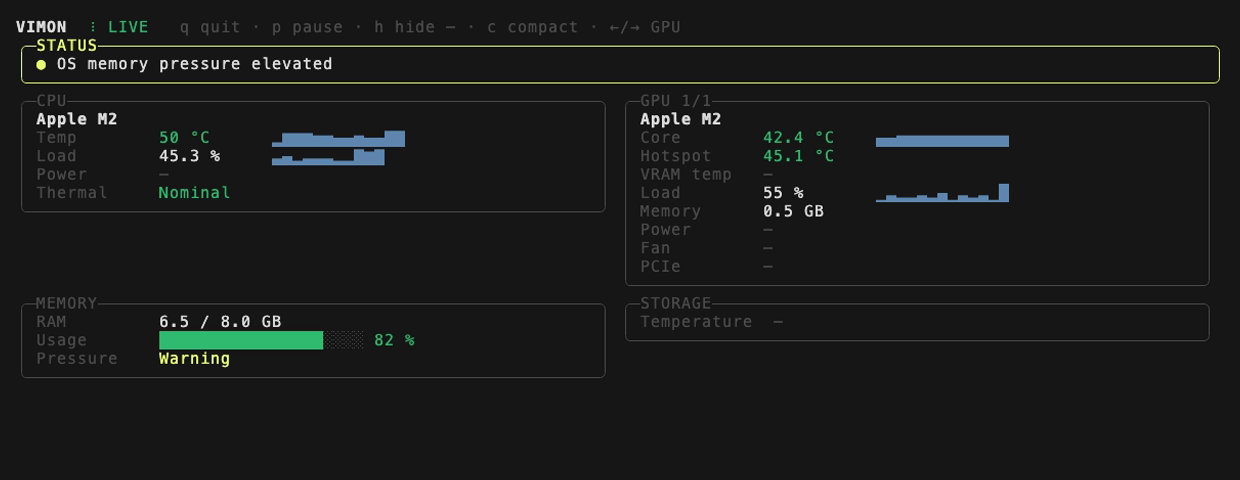
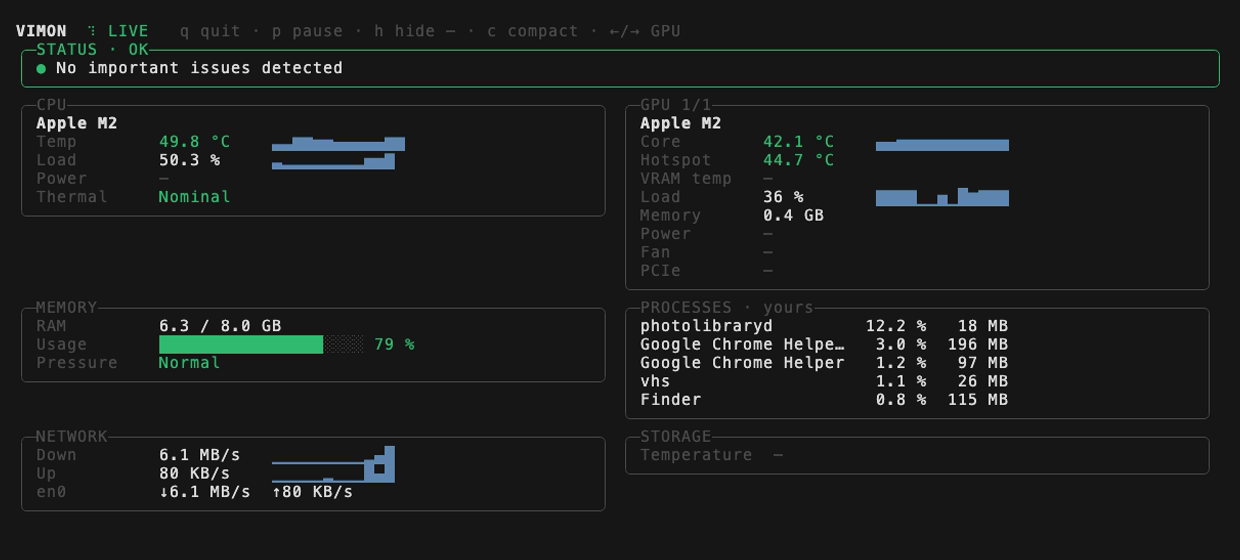
docs: bring README, platform guides and demo up to v0.6.0-alpha (#20)
README: tagline and 'Why Vimon?' mention network and processes, Philosophy
notes the status word, Architecture lists the new parts, roadmap adds
Windows processes. Windows guide lists all options and what is not
available yet; Linux guide plans network and process sources; macOS guide
lists --no-processes. Demo GIF and still re-recorded with v0.6.0-alpha on
the M2 (window height 560 so NETWORK and PROCESSES fit).

Changed region(s): [[0.0, 0.0625, 0.9806, 0.9062], [0.7048, 0.25, 0.8274, 0.4375], [0.6129, 0.25, 0.6742, 0.4688]]

diff --git a/README.md b/README.md
@@ -6,7 +6,7 @@
 
 A focused terminal monitor for the hardware metrics that actually matter.
 
-`CPU · GPU · VRAM · RAM · PCIe · Thermals`
+`CPU · GPU · VRAM · RAM · PCIe · Thermals · Network · Processes`
 
 ![Vimon live view on an Apple M2](docs/assets/vimon-demo.gif)
 
@@ -35,11 +35,13 @@ Vimon does the opposite: it surfaces the handful of metrics that help you decide
 - Is GPU memory getting uncomfortable?
 - Is RAM pressure becoming a problem?
 - Is the GPU actually using the expected PCIe link?
+- Which process is keeping the machine busy?
+- Is the network moving data right now?
 - Is anything worth investigating now?
 
 No 300-row sensor table. No hunting through labels.
 
-![Vimon dashboard: STATUS on top, CPU and GPU side by side with sparklines, memory bar below](docs/assets/vimon.png)
+![Vimon dashboard: STATUS on top, CPU and GPU side by side with sparklines, then memory and the busiest processes, network throughput and storage](docs/assets/vimon.png)
 
 <sub>Still frame from the same recording.</sub>
 
@@ -206,7 +208,7 @@ Vimon is not trying to replace HWiNFO, lm-sensors, iStat Menus or vendor tools.
 
 Those tools expose data.
 
-Vimon tries to expose **meaning**: the STATUS panel on top says in one line per finding what deserves attention, and its border turns green, yellow or red with the worst one. Temperatures and bars use the same thresholds, so colour always means the same thing.
+Vimon tries to expose **meaning**: the STATUS panel on top says in one line per finding what deserves attention, names the worst level in its header (`STATUS · WARN`) and turns its border green, yellow or red with it. Temperatures and bars use the same thresholds, so colour always means the same thing, and nothing depends on colour alone.
 
 ---
 
@@ -234,10 +236,10 @@ The CLI has two target frameworks: `net8.0-windows` uses the LibreHardwareMonito
 
 ```text
 src/
-├── Vimon.Core               models, diagnostics, nvidia-smi parsing
-├── Vimon.Cli                terminal UI (renderer, window fitting, input loop)
-├── Vimon.Platform.Windows   LibreHardwareMonitor + nvidia-smi
-├── Vimon.Platform.MacOS     Mach, sysctl, IORegistry, SMC, NSProcessInfo
+├── Vimon.Core               models, diagnostics, rate trackers (network, processes), nvidia-smi parsing
+├── Vimon.Cli                terminal UI on Spectre.Console: full, compact and widget views, themes, input loop
+├── Vimon.Platform.Windows   LibreHardwareMonitor, nvidia-smi, .NET network statistics
+├── Vimon.Platform.MacOS     Mach, sysctl, IORegistry, SMC, NSProcessInfo, routing table, libproc
 └── Vimon.Platform.Linux     planned
 tests/
 ├── Vimon.Core.Tests
@@ -264,6 +266,7 @@ GPU data uses a vendor-neutral model. Unsupported metrics are nullable by design
 ### Next
 
 - [ ] Load [profiles](profiles/) and add Apple Silicon thresholds
+- [ ] Busiest processes on Windows
 - [ ] Disk throughput
 - [ ] `--json` output
 - [ ] Linux backend and Linux release builds

diff --git a/docs/platforms/windows.md b/docs/platforms/windows.md
@@ -13,7 +13,12 @@
 .\vimon-windows-x64.exe
 .\vimon-windows-x64.exe --once            # one frame, then exit
 .\vimon-windows-x64.exe --hide-missing    # start with empty rows hidden
+.\vimon-windows-x64.exe --compact         # one- or two-line view (toggle with C)
+.\vimon-windows-x64.exe --widget          # borderless list for a desktop panel
+.\vimon-windows-x64.exe --theme mono      # no colours; also chosen automatically when NO_COLOR is set
 ```
+
+All options and keys: [README → Controls](../../README.md#controls).
 
 The executable is self-contained (no .NET install needed) and not code-signed yet. SmartScreen may show *Windows protected your PC* on first start: choose *More info → Run anyway*.
 
@@ -33,6 +38,13 @@ LibreHardwareMonitor needs driver access for many sensors. Without admin rights 
 | Network throughput | `NetworkInterface.GetIPStatistics` (64-bit counters). Left out: loopback, tunnels and virtual adapters (Hyper-V, VMware, VirtualBox, WireGuard, TAP, Bluetooth) |
 
 Which GPU values appear depends on what the GPU and driver expose through LibreHardwareMonitor. Missing values are shown as `—`.
+
+## Not available (yet)
+
+| Value | Why |
+|---|---|
+| Busiest processes | Planned (`NtQuerySystemInformation`, which also sees protected processes without admin rights). The PROCESSES panel does not appear on Windows until then. |
+| OS memory pressure, thermal state | Windows has no direct equivalent of the macOS signals. |
 
 ## Multi-GPU
 

diff --git a/docs/platforms/macos.md b/docs/platforms/macos.md
@@ -43,6 +43,7 @@ vimon --compact         # one- or two-line view (toggle with C)
 vimon --once --compact  # single status line, e.g. for tmux or SketchyBar
 vimon --widget          # borderless list for a desktop panel (see below)
 vimon --theme mono      # no colours; also chosen automatically when NO_COLOR is set
+vimon --no-processes    # leave process names out, e.g. while sharing the screen
 ```
 
 The live view runs in the terminal's alternate screen, like `top`: resizing does not leave copies in the scrollback, and your previous terminal content returns when you quit with `Q`, `Esc` or `Ctrl+C`. Give the window at least ~40 rows to see everything; shorter windows are cut from the bottom, STATUS stays on top.

diff --git a/docs/platforms/linux.md b/docs/platforms/linux.md
@@ -23,6 +23,8 @@ Linux exposes most of what Vimon needs as plain files, no extra daemons required
 | NVIDIA GPUs | `nvidia-smi` (the parser already lives in `Vimon.Core`) |
 | AMD GPU load and VRAM | `/sys/class/drm/card*/device/` |
 | GPU and NVMe temperatures | `/sys/class/hwmon` (`amdgpu`, `nvme`) |
+| Network throughput | `/proc/net/dev` |
+| Busiest processes | `/proc/<pid>/stat` and `/proc/<pid>/status` |
 
 Releases will follow the macOS pattern: self-contained `linux-x64` and `linux-arm64` tarballs built and smoke-tested in CI.
 
